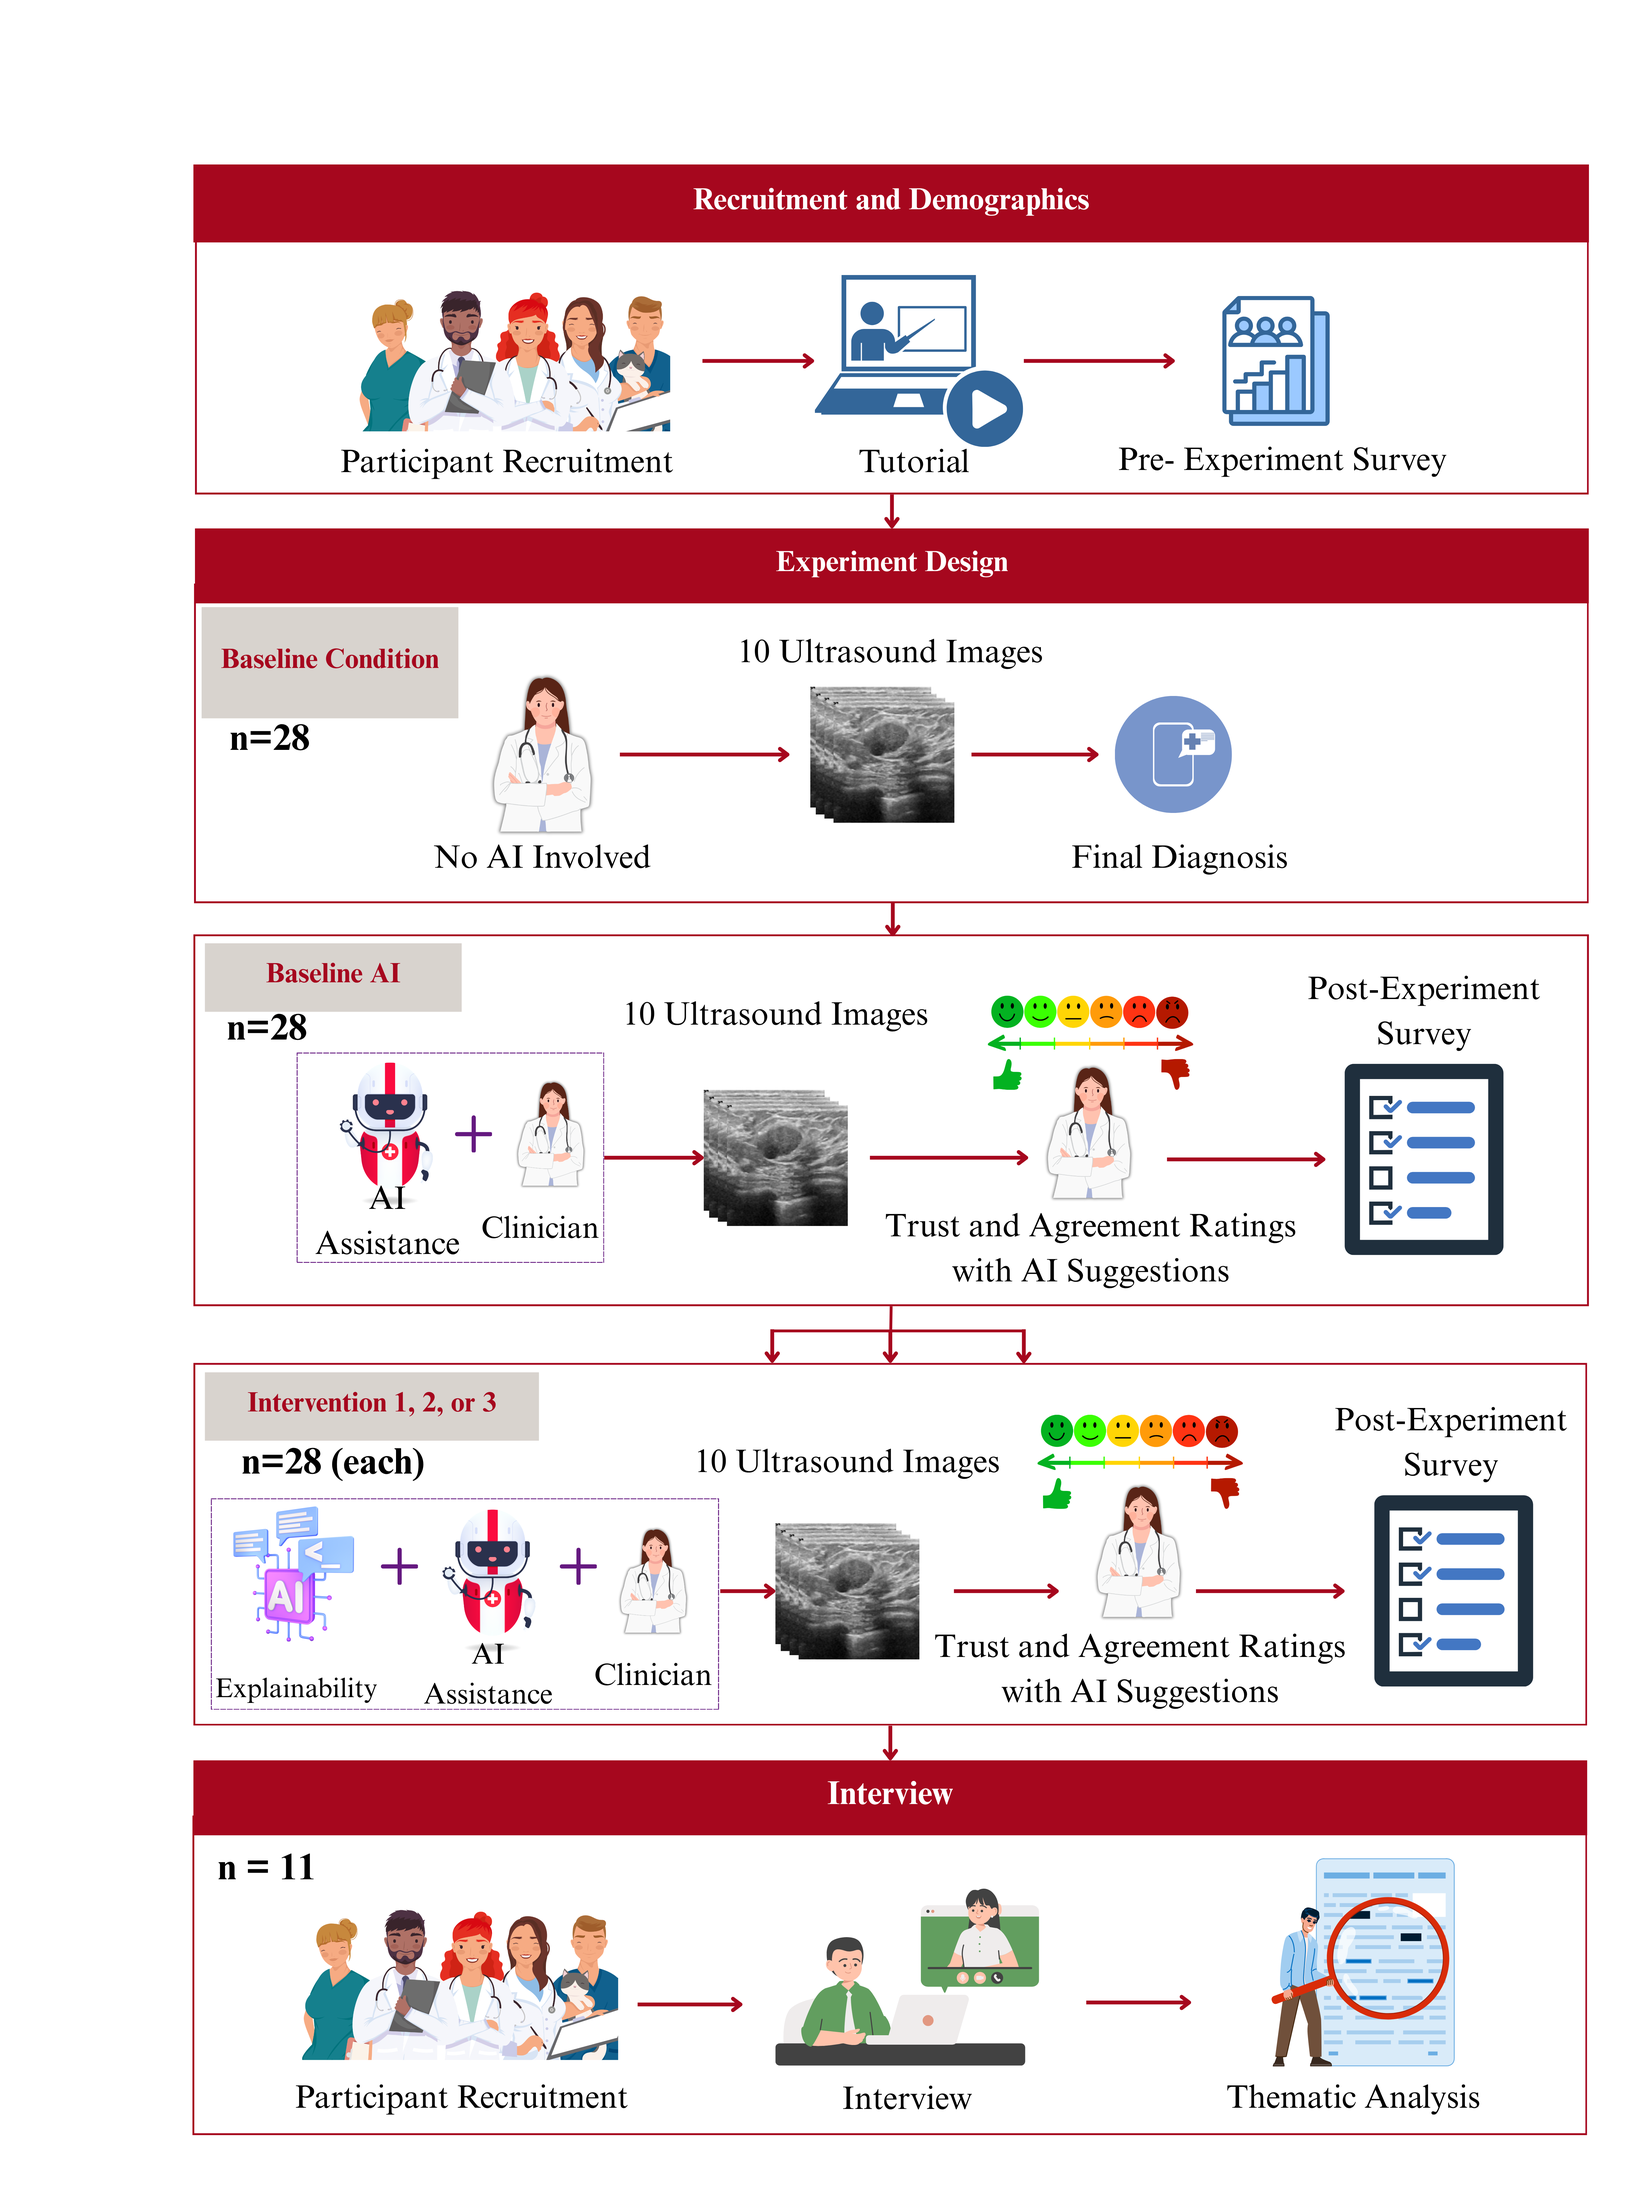
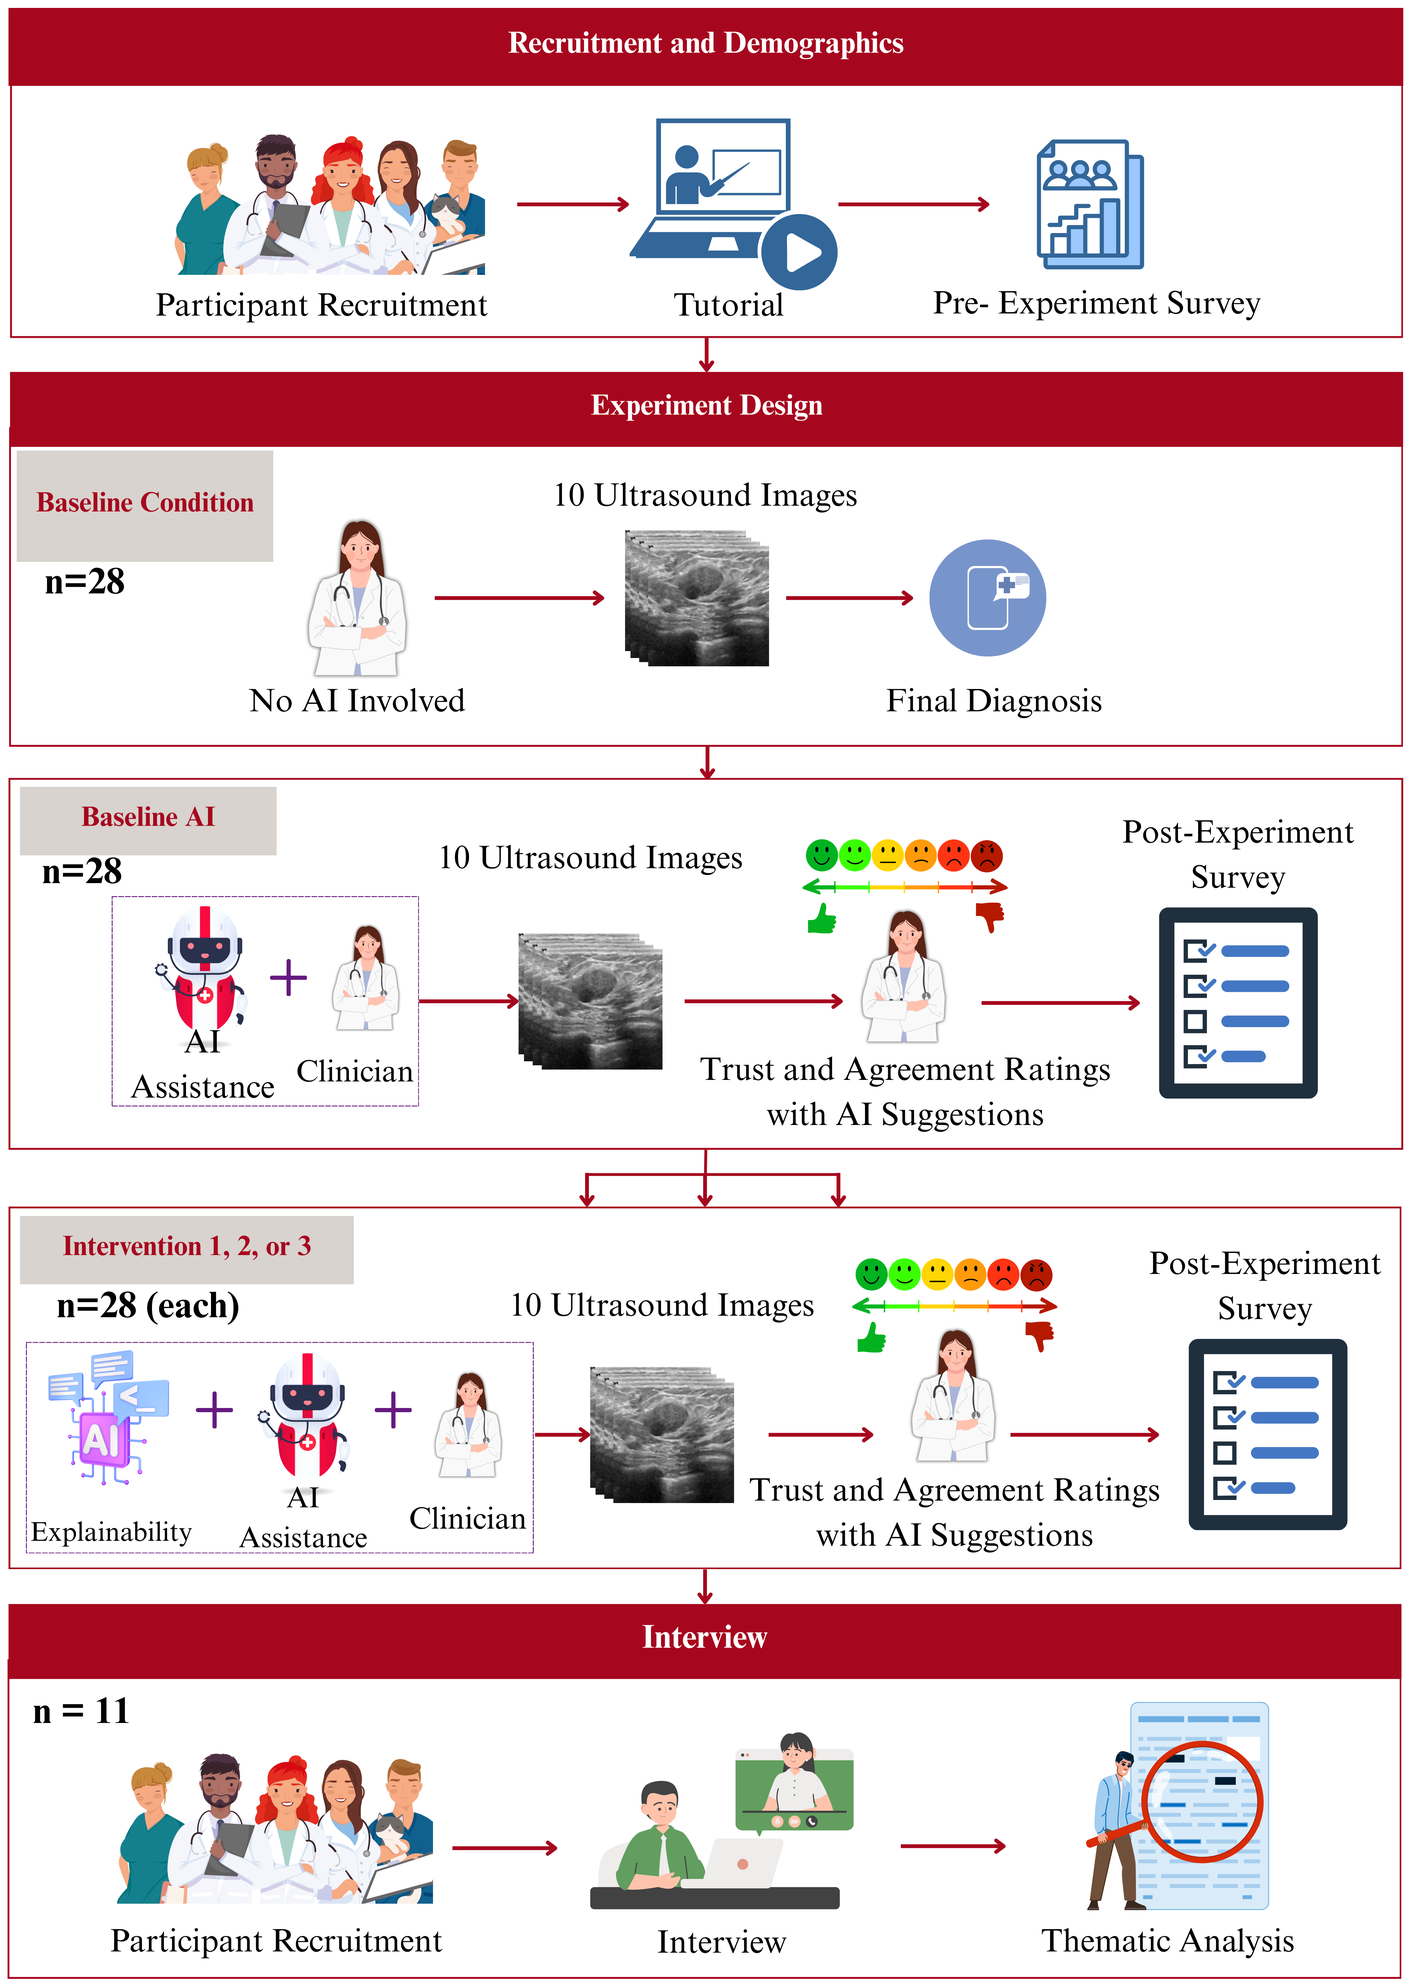
Add portrait spots to Home hero and About page
Home hero: two-column layout with a large square portrait on the
right. About page: portrait moved from small top-left to a big
top-right slot, with Areas of focus now underneath it instead of
beside the bio text. PortraitFrame is now a flexible, responsive
rectangle (via className) instead of a small fixed square.

diff --git a/src/components/PortraitFrame.tsx b/src/components/PortraitFrame.tsx
@@ -4,32 +4,34 @@ import { User } from "lucide-react";
 export default function PortraitFrame({
   src,
   alt,
-  size = 128,
+  className = "",
 }: {
   src?: string;
   alt: string;
-  size?: number;
+  className?: string;
 }) {
   if (src) {
     return (
-      <Image
-        src={src}
-        alt={alt}
-        width={size}
-        height={size}
-        className="rounded-2xl border border-border object-cover"
-        style={{ width: size, height: size }}
-      />
+      <div
+        className={`relative overflow-hidden rounded-2xl border border-border ${className}`}
+      >
+        <Image
+          src={src}
+          alt={alt}
+          fill
+          sizes="(min-width: 1024px) 480px, 100vw"
+          className="object-cover"
+        />
+      </div>
     );
   }
 
   return (
     <div
-      className="flex flex-col items-center justify-center gap-1.5 rounded-2xl border border-dashed border-border bg-surface-muted text-center"
-      style={{ width: size, height: size }}
+      className={`flex flex-col items-center justify-center gap-2 rounded-2xl border border-dashed border-border bg-surface-muted text-center ${className}`}
     >
-      <User size={22} className="text-muted" />
-      <span className="px-3 text-[11px] leading-tight text-muted">
+      <User size={32} className="text-muted" />
+      <span className="px-4 text-sm leading-tight text-muted">
         Add your photo
       </span>
     </div>

diff --git a/src/app/page.tsx b/src/app/page.tsx
@@ -2,6 +2,7 @@ import Link from "next/link";
 import { ArrowUpRight, ArrowRight } from "lucide-react";
 import Container from "@/components/Container";
 import CaseStudyCard from "@/components/CaseStudyCard";
+import PortraitFrame from "@/components/PortraitFrame";
 import Reveal from "@/components/motion/Reveal";
 import AnimatedStat from "@/components/motion/AnimatedStat";
 import { profile, caseStudies } from "@/lib/data";
@@ -11,7 +12,7 @@ export default function Home() {
     <>
       {/* Hero */}
       <section className="border-b border-border">
-        <Container className="flex flex-col gap-8 py-20 sm:py-28">
+        <Container className="grid grid-cols-1 items-center gap-10 py-20 sm:py-28 lg:grid-cols-[1fr_360px]">
           <Reveal>
             <p className="text-sm font-medium uppercase tracking-widest text-primary">
               {profile.title}
@@ -39,6 +40,13 @@ export default function Home() {
                 Get in touch
               </Link>
             </div>
+          </Reveal>
+          <Reveal delay={0.12}>
+            <PortraitFrame
+              src={profile.photoUrl}
+              alt={profile.name}
+              className="aspect-square w-full max-w-[360px]"
+            />
           </Reveal>
         </Container>
       </section>

diff --git a/src/app/about/page.tsx b/src/app/about/page.tsx
@@ -39,7 +39,6 @@ export default function AboutPage() {
     <Container className="py-20 sm:py-28">
       <div className="grid grid-cols-1 gap-16 lg:grid-cols-[1.1fr_0.9fr]">
         <Reveal className="flex flex-col gap-6">
-          <PortraitFrame src={profile.photoUrl} alt={profile.name} />
           <p className="text-sm font-medium uppercase tracking-widest text-primary">
             About me
           </p>
@@ -71,7 +70,12 @@ export default function AboutPage() {
           </div>
         </Reveal>
 
-        <Reveal delay={0.12} className="flex flex-col gap-4">
+        <Reveal delay={0.12} className="flex flex-col gap-8">
+          <PortraitFrame
+            src={profile.photoUrl}
+            alt={profile.name}
+            className="aspect-[4/5] w-full"
+          />
           <div className="rounded-2xl border border-border bg-surface-muted p-8">
             <h2 className="font-serif text-xl text-foreground">
               Areas of focus
